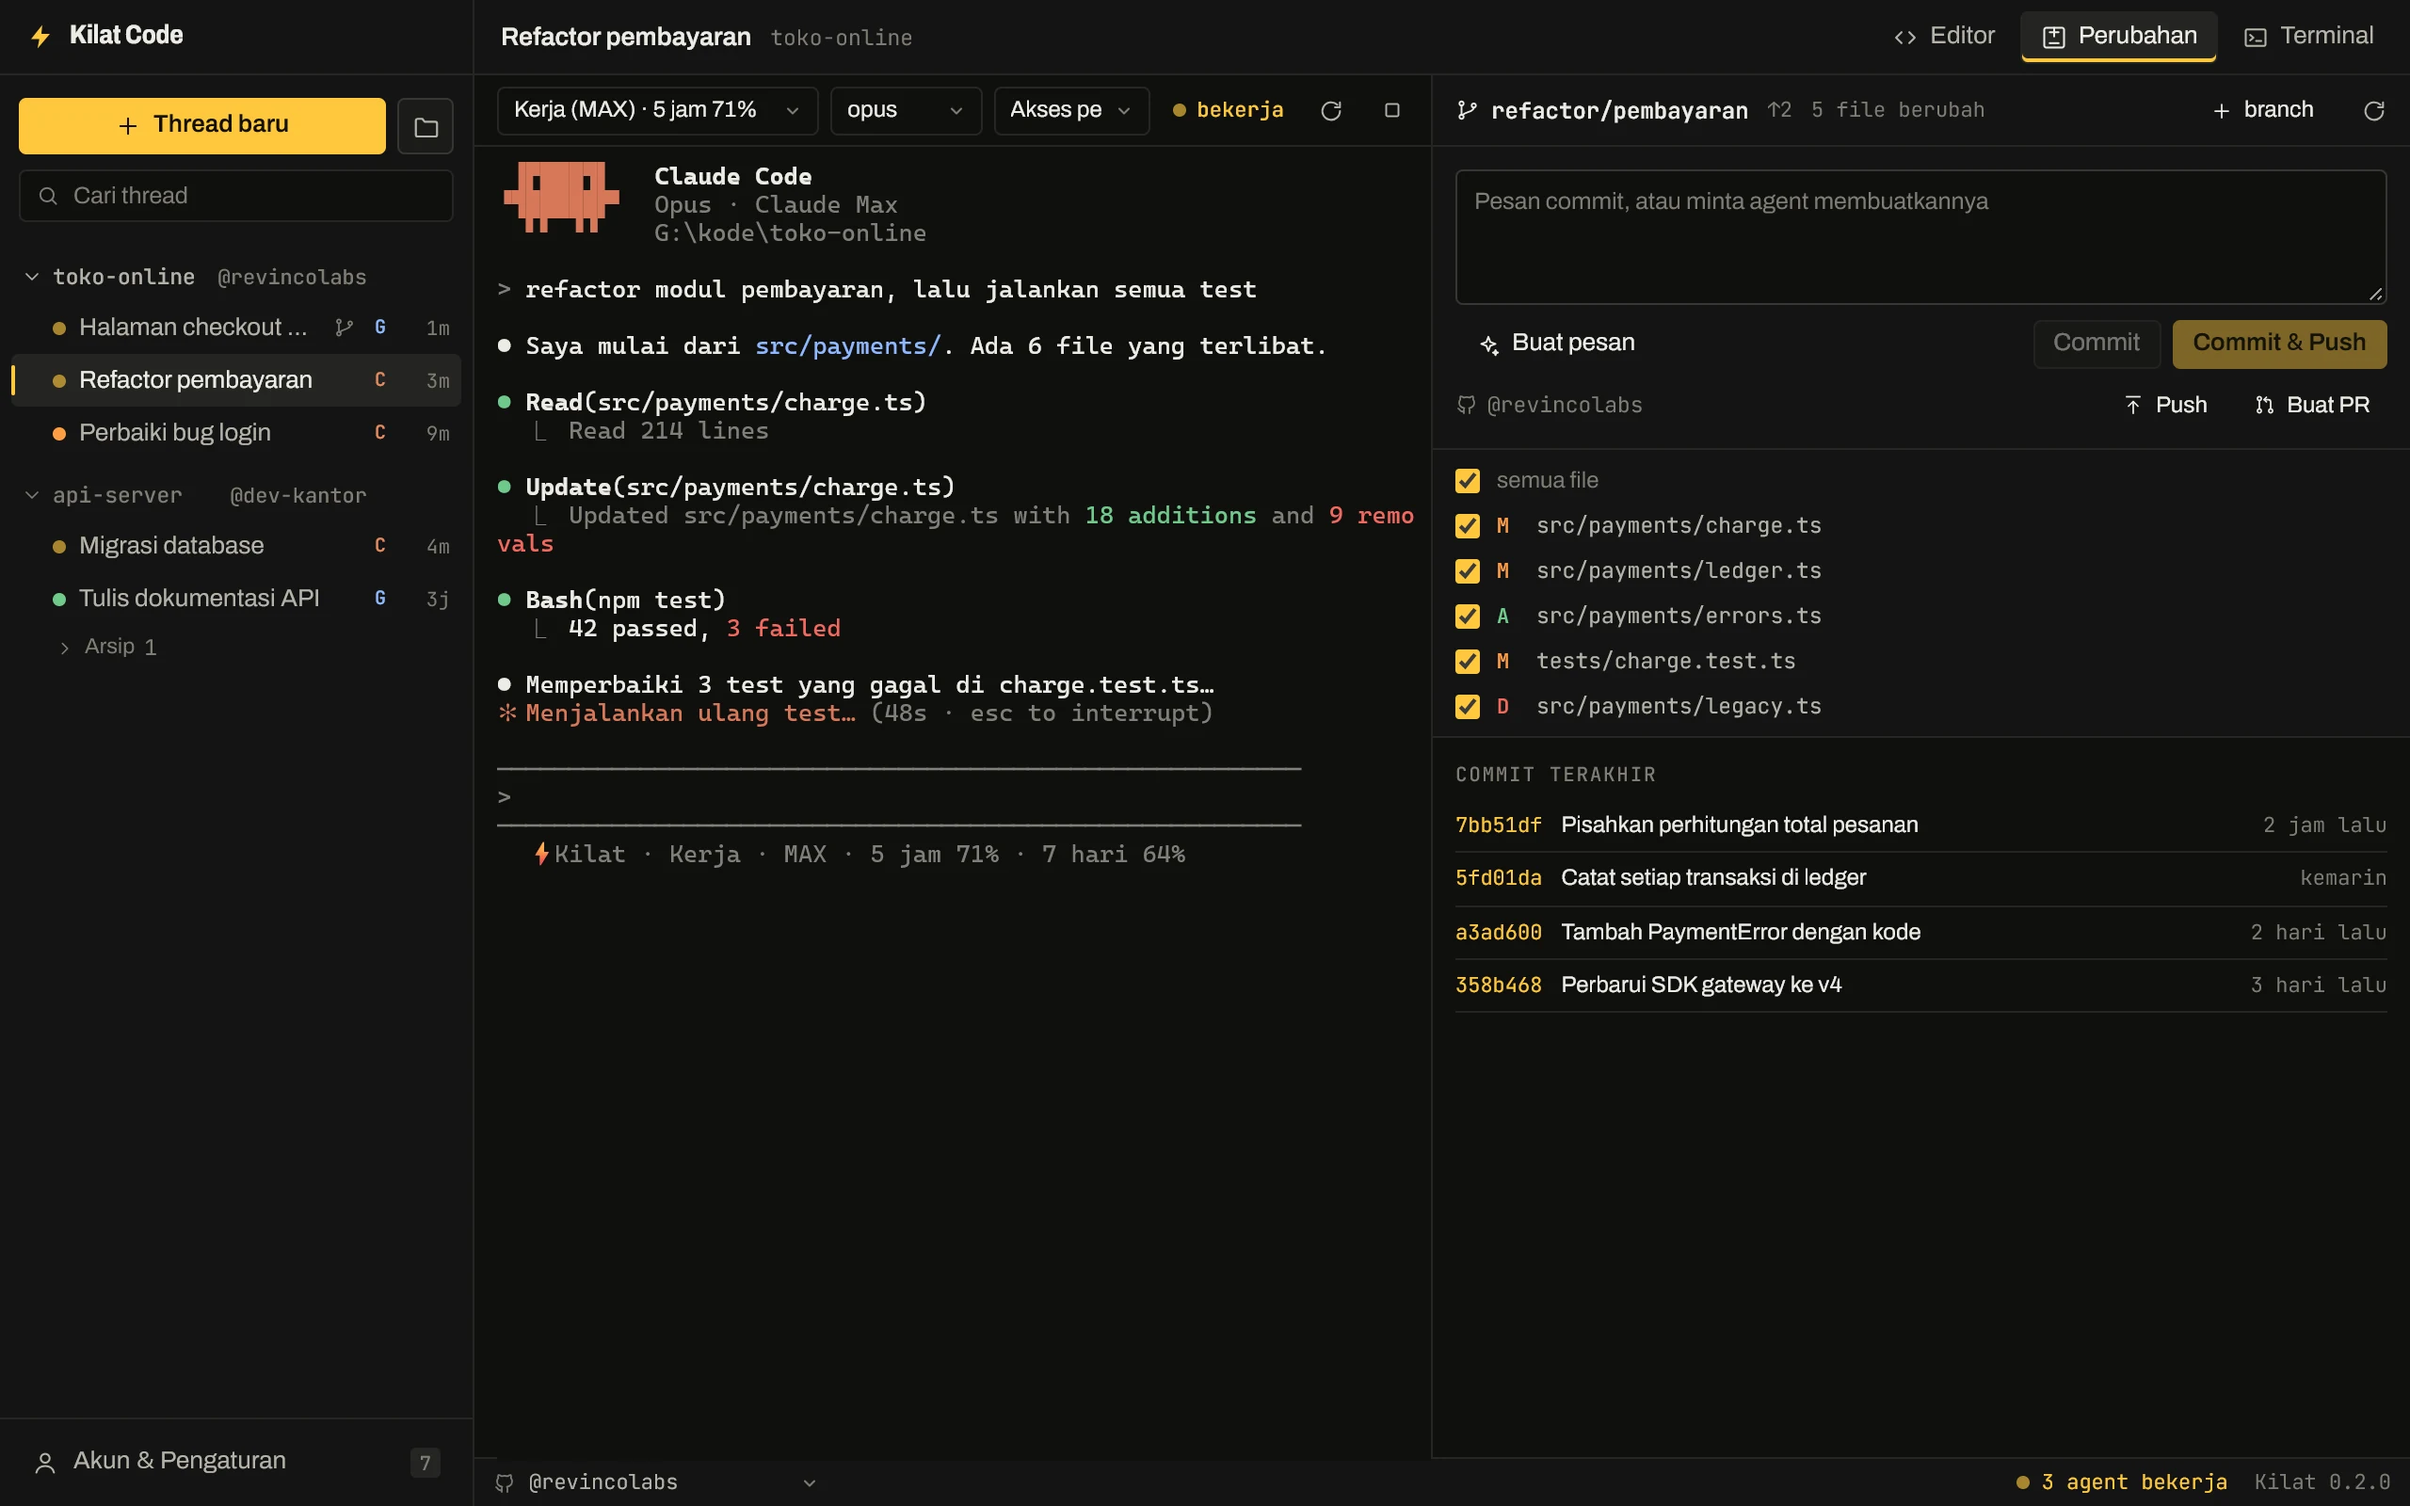
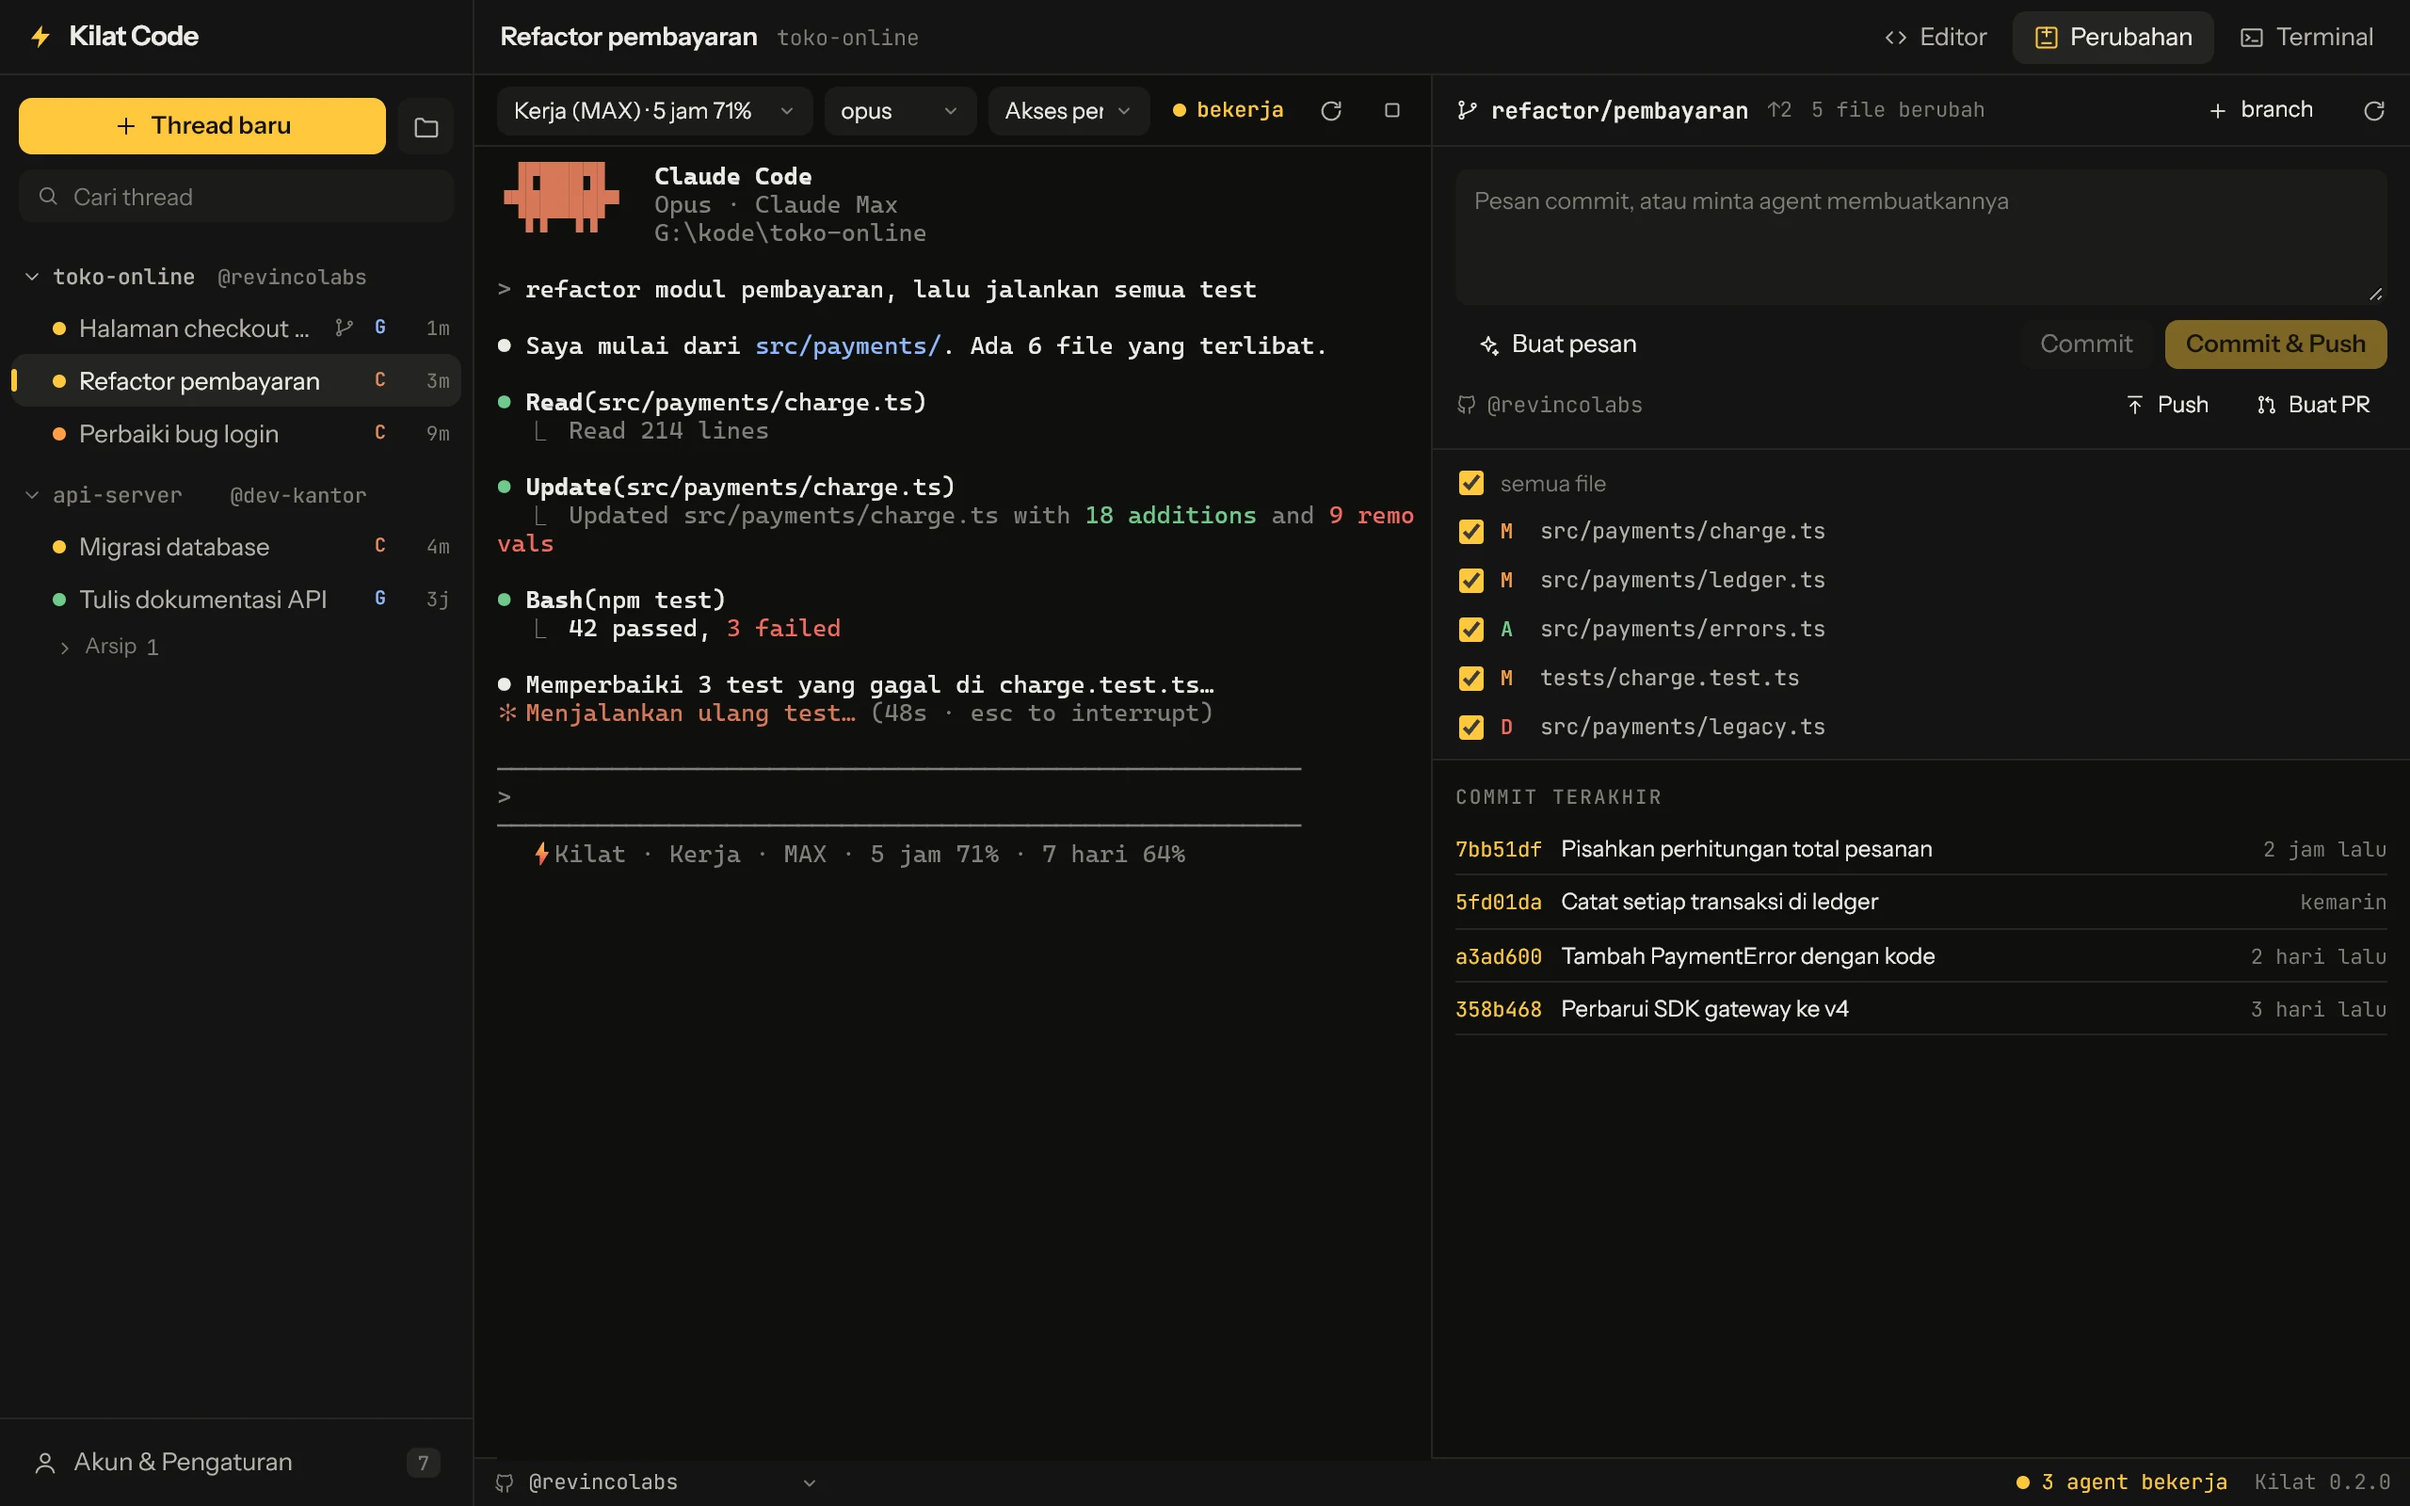
Linux: build an .rpm for Fedora; refresh website screenshots
Add the rpm bundle target so releases include KilatCode_linux_x86_64.rpm,
and document installing it with dnf (and fuse-libs for the AppImage on
Fedora until then). The website screenshots are retaken from the restyled
app.

diff --git a/website/src/site.ts b/website/src/site.ts
@@ -49,7 +49,7 @@ export const PLATFORMS: Platform[] = [
       { label: "AppImage", url: latest("KilatCode_linux_amd64.AppImage"), size: "83 MB" },
       { label: ".deb", url: latest("KilatCode_linux_amd64.deb"), size: "4,5 MB" },
     ],
-    note: "AppImage: chmod +x lalu jalankan.",
+    note: "AppImage: chmod +x lalu jalankan. Fedora: pasang fuse-libs dulu; paket .rpm menyusul di v0.2.1.",
   },
 ];
 

diff --git a/README.md b/README.md
@@ -12,7 +12,7 @@ Ambil installer di [Releases terbaru](https://github.com/revincolabs/kilat-code/
 |---|---|---|
 | Windows 10/11 (64-bit) | `…-setup.exe` | Belum ditandatangani: di SmartScreen klik *More info → Run anyway* |
 | macOS 11+ (Apple Silicon & Intel) | `.dmg` | Belum dinotarisasi: klik kanan aplikasi → *Open*, atau `xattr -cr "/Applications/Kilat Code.app"` |
-| Linux (x86_64) | `.AppImage` / `.deb` | Butuh WebKitGTK 4.1 dan Secret Service (GNOME Keyring / KWallet) untuk menyimpan token |
+| Linux (x86_64) | `.AppImage` / `.deb` / `.rpm` (Fedora) | Butuh WebKitGTK 4.1 dan Secret Service (GNOME Keyring / KWallet) untuk menyimpan token |
 
 Versi Windows yang paling banyak diuji; macOS dan Linux masih tahap awal. Aplikasi memeriksa update sendiri dan menawarkannya di status bar.
 
